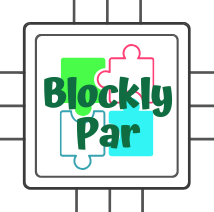
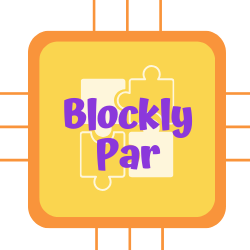
colors of the pages

diff --git a/about.html b/about.html
@@ -2,41 +2,39 @@
 <html>
 
 <head>
+
   <meta name="viewport" content="target-densitydpi=device-dpi, width=device-width, initial-scale=1.0, user-scalable=yes">
   <meta charset="utf-8">
-  <meta name="google" value="notranslate">
   <title>About</title>
   <link rel="stylesheet" href="common/common.css">
   <link rel="stylesheet" href="index/style.css">
-  <script src="common/boot.js"></script>
 </head>
 
 <body>
 
     <div class="header">
-        <a href="index.html?lang={$ij.lang}" class="logo"><img id="banner" src="index/blocklypar.png" width="100" alt="Blockly Games"></a>
-
+        <a id="back" href="/" class="logo"><img id="banner" src="index/blocklypar.png" width="100" alt="Blockly Games"></a>
+        <div class="nav-spacer"></div>
         <div class="header-right">
-          <a class="color-one" href="about.html?lang={$ij.lang}">ABOUT</a>
+          <a class="active" href="about.html?lang={$ij.lang}">ABOUT</a>
+
           <a class="color-two" href="parallel.html?lang={$ij.lang}">PARALLEL PROGRAMMING</a>
           <a class="color-three" href="code.html?lang={$ij.lang}">CODE</a>
-          <a class="language"><select id="languageMenu"></select></a>
         </div>
     </div>
 
   
-    <div id="about">
-        <h3>ABOUT</h3>
-        <p>Blockly Games is a series of educational games that teach programming.  It is
-            designed for children who have not had prior experience with computer programming.
-            By the end of these games, players are ready to use conventional text-based languages.</p>
-            <p>Maze is an introduction to loops and conditionals. It starts simply, but every level is more challenging than the last.</p>
-          
-            <p>Blockly Games is a Google project to encourage tomorrow's programmers. The
-            games are designed to be self-paced and self-teaching. Feel free to use Blockly
-            Games both inside and outside the classroom. All code is open source, see
-            the <a href="https://github.com/google/blockly-games/wiki">developer's&nbsp;website</a>
-            for more info or to download zip files for offline use.</p>
+    <div id="text">
+        <h3 id="title">ABOUT</h3>
+        <p>Blockly Par is a game inspired in Blockly-Games, that uses Blockly programming language
+          to teach parallel thinking through a game.
+          It has educational purposes, and was designed specially to freshman students in Computer Science
+          majors. Is expected that at the end of the games the students feel challenged
+          to explore parallelism in their programs</p>
+        
+        <p>This project was developed during as a Bachelor thesis in Computer Science at the Federal University
+          of Santa Maria, in Brazil.
+        </p>
     </div>
 
     <p style="text-align: center; font-size: small">
@@ -45,5 +43,6 @@
     </p>
 
   <script src="common/back.js"></script>
+
 </body>
 </html>

diff --git a/parallel.html b/parallel.html
@@ -2,11 +2,11 @@
 <html>
 
 <head>
+
   <meta name="viewport" content="target-densitydpi=device-dpi, width=device-width, initial-scale=1.0, user-scalable=yes">
   <meta charset="utf-8">
   <meta name="google" value="notranslate">
   <title>Parallel</title>
-  <link rel="stylesheet" href="common/common.css">
   <link rel="stylesheet" href="index/style.css">
   <script src="common/boot.js"></script>
 </head>
@@ -14,29 +14,20 @@
 <body>
 
     <div class="header">
-        <a href="index.html?lang={$ij.lang}" class="logo"><img id="banner" src="index/blocklypar.png" width="100" alt="Blockly Games"></a>
+        <a id="back" href="/" class="logo"><img id="banner" src="index/blocklypar.png" width="100" alt="Blockly Games"></a>
+        <div class="nav-spacer"></div>
 
         <div class="header-right">
             <a class="color-one" href="about.html?lang={$ij.lang}">ABOUT</a>
-            <a class="color-two" href="parallel.html?lang={$ij.lang}">PARALLEL PROGRAMMING</a>
+            <a class="active" href="parallel.html?lang={$ij.lang}">PARALLEL PROGRAMMING</a>
             <a class="color-three" href="code.html?lang={$ij.lang}">CODE</a>
-            <a class="language"><select id="languageMenu"></select></a>
         </div>
     </div>
 
   
-    <div id="parallel">
-        <h3>PARALLEL</h3>
-        <p>Blockly Games is a series of educational games that teach programming.  It is
-            designed for children who have not had prior experience with computer programming.
-            By the end of these games, players are ready to use conventional text-based languages.</p>
-            <p>Maze is an introduction to loops and conditionals. It starts simply, but every level is more challenging than the last.</p>
-          
-            <p>Blockly Games is a Google project to encourage tomorrow's programmers. The
-            games are designed to be self-paced and self-teaching. Feel free to use Blockly
-            Games both inside and outside the classroom. All code is open source, see
-            the <a href="https://github.com/google/blockly-games/wiki">developer's&nbsp;website</a>
-            for more info or to download zip files for offline use.</p>
+    <div id="text">
+        <h3 id="title">PARALLEL PROGRAMMING</h3>
+        <p>TEXT</p>
     </div>
 
     <p style="text-align: center; font-size: small">

diff --git a/index/style.css b/index/style.css
@@ -165,7 +165,8 @@ li a:hover.color-three {
   float: left;
   color: black;
   text-align: center;
-  padding: 15px 15px;
+  padding: 18px 18px;
+  margin-right: 1.5em;
   text-decoration: none;
   font-size: 20px; 
   line-height: 10px;
@@ -189,20 +190,12 @@ li a:hover.color-three {
 }
 
 .header a:hover.color-one {
-  background-color: #fd933c;
-}
-
-.header a:hover.color-two {
-  background-color: #ff5283;
-}
-
-.header a:hover.color-three {
-  background-color: #60fcfc;
+  background-color: #fad54f;
 }
 
 
 .header a.active {
-  background-color: rgb(52, 113, 175);
+  background-color: #f9943b;
   color: rgb(255, 255, 255);
 }
 
@@ -228,18 +221,24 @@ li a:hover.color-three {
   font-family: "Source Sans Pro", sans-serif;
   font-size: 20px;
   padding: 50px 50px;
-  background-color: #1efc1e;
+  background-color: #f9943b;
   text-align: center;
   color:rgb(255, 255, 255);
 }
 
-#about {
+#title {
+  font-family: "Source Sans Pro", sans-serif;
+  font-size: 30px;
+  color:#8b38db;
+}
+
+#text {
   font-family: "Source Sans Pro", sans-serif;
   font-size: 20px;
   padding: 50px 50px;;
-  background-color: #fd933c4b;
+  background-color: #fad54f;
   text-align: center;
-  color:rgb(0, 0, 0);
+  color:#000000;
 }
 
 #parallel {
@@ -266,10 +265,10 @@ li a:hover.color-three {
   left:50%;
   transform:translate(-50%,-50%);
   padding:12px 35px;
-  background:rgb(255, 255, 255);
-  border:8px solid #157145;
+  background:#8b38db;
+  border:0px;
   font-family: "Source Sans Pro", sans-serif;
-  color:#157145;
+  color:#ffffff;
   text-decoration:none;
   text-transform:uppercase;
   font-size:40px;
@@ -286,7 +285,7 @@ li a:hover.color-three {
   bottom: 50;
   width:100%;
   height:100%;
-  background:#C3EB78;
+  background:#fad54f;
   z-index:-1;
   transform-origin: bottom left;
   transform:rotate(-90deg);

diff --git a/code.html b/code.html
@@ -14,19 +14,18 @@
 <body>
 
     <div class="header">
-        <a href="index.html?lang={$ij.lang}" class="logo"><img id="banner" src="index/blocklypar.png" width="100" alt="Blockly Games"></a>
-
+        <a id="back" href="/" class="logo"><img id="banner" src="index/blocklypar.png" width="100" alt="Blockly Games"></a>
+        <div class="nav-spacer"></div>
         <div class="header-right">
             <a class="color-one" href="about.html?lang={$ij.lang}">ABOUT</a>
             <a class="color-two" href="parallel.html?lang={$ij.lang}">PARALLEL PROGRAMMING</a>
-            <a class="color-three" href="code.html?lang={$ij.lang}">CODE</a>
-            <a class="language"><select id="languageMenu"></select></a>
+            <a class="active" href="code.html?lang={$ij.lang}">CODE</a>
         </div>
     </div>
 
   
-    <div id="code">
-        <h3>CODE</h3>
+    <div id="text">
+        <h3 id="title">CODE</h3>
         <a href="https://github.com/blocklypar">The code is available here!</a>
     </div>
 

diff --git a/index.html b/index.html
@@ -11,5 +11,6 @@
   <script src="common/boot.js"></script>
 </head>
 <body>
+    <script src="common/back.js"></script>
 </body>
 </html>
